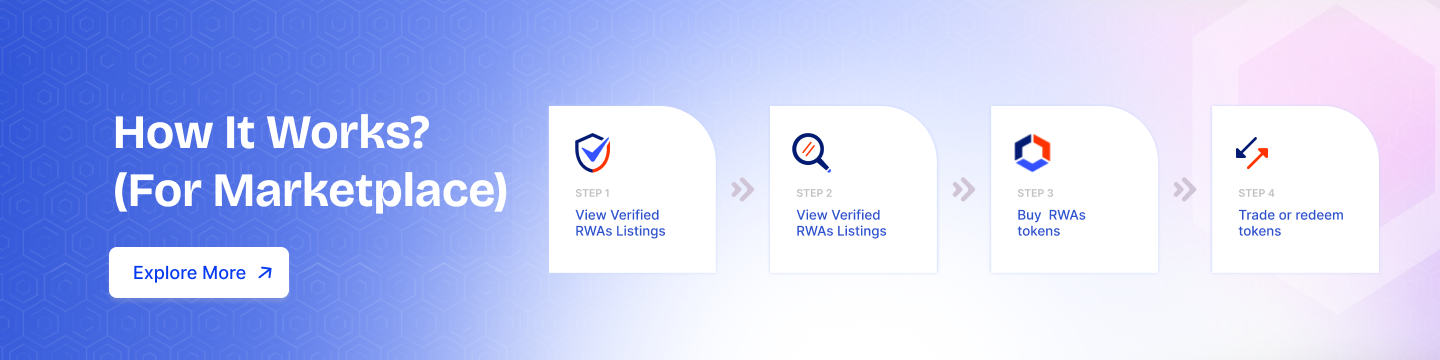
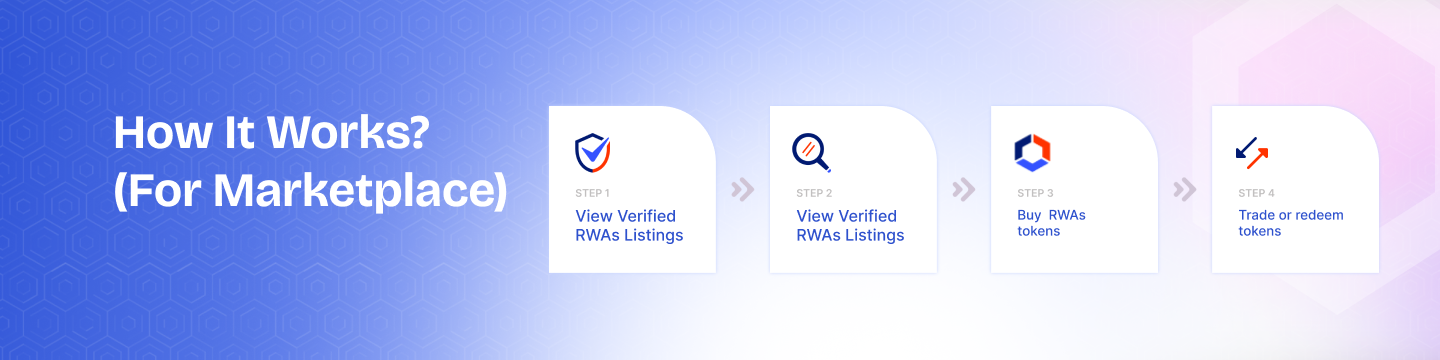
Added styling and responsiveness to carousel

Changed region(s): [[0.0625, 0.6722, 0.2188, 0.8556], [0.5312, 0.5806, 0.625, 0.6722], [0.375, 0.5806, 0.5, 0.6722]]

diff --git a/marketplace/ui/src/components/MarketPlace/index.js b/marketplace/ui/src/components/MarketPlace/index.js
@@ -20,7 +20,7 @@ const MarketPlace = ({ user, isAuthenticated }) => {
   const dispatch = useCategoryDispatch();
   const debouncedSearchTerm = useDebounce("", 1000);
   const { iscategorysLoading } = useCategoryState();
-  
+
   useEffect(() => {
     if (isAuthenticated) {
       const loginCount = localStorage.getItem('loginCount');
@@ -35,7 +35,7 @@ const MarketPlace = ({ user, isAuthenticated }) => {
               type="primary"
               onClick={() => navigateToUserProfile()}
               style={{
-                borderRadius: '20px', 
+                borderRadius: '20px',
                 color: '#fff',
               }}
             >
@@ -64,142 +64,206 @@ const MarketPlace = ({ user, isAuthenticated }) => {
   const linkUrl = window.location.href;
   const metaImg = SEO.IMAGE_META
   const navRoute = routes.MarketplaceCategoryProductList.url.replace(':category', 'All');
-  
+
   return (
     <>
-    <HelmetComponent 
-          title={SEO.TITLE_META}
-          description={SEO.DESCRIPTION_META} 
-          link={linkUrl} />
-    <Fade triggerOnce>
-      <Carousel autoPlay centerSlidePercentage={95} showArrows={false} infiniteLoop showStatus={false} swipeable emulateTouch autoFocus centerMode>
-        <div className="relative p-2 h-[222px] md:h-[380px] mx-1 md:mx-2 md:mt-6 lg:mx-3">
-          {/* <div  className="flex flex-col gap-3 backdrop-blur-2xl text-left p-4 px-3 md:px-8 h-[67%] sm:h-32 md:h-40 w-[92%] sm:w-[70%] md:w-[500px] rounded-md md:rounded-2xl absolute left-2 md:left-10 top-10 sm:top-20 md:top-44 bg-[rgba(256,256,256,0.17)] z-50">
-            <Typography.Text className="text-base md:text-2xl md:leading-[40px] text-white font-semibold">
-              Welcome to Mercata Marketplace!
-            </Typography.Text>
-            <Typography.Text className="md:text-sm text-white pr-0">
-              Explore trending real-world assets
-            </Typography.Text>
-            <Button
-              id="viewMore"
-              onClick={() => {
-                navigate(navRoute);
-                sessionStorage.setItem('scrollPosition', 0);
-              }}
-              className="group w-[106px] md:w-[135px] h-8 md:h-11 border border-primary bg-white opacity-80">
-              <div className="text-primary font-semibold md:text-lg">
-                View More
-              </div>
-            </Button>
-          </div> */}
-          <img 
-          alt={metaImg}
-          title={metaImg}
-          className="absolute inset-0 z-10 h-[222px] md:h-[330px] md:w-[90%] rounded-md md:rounded-[14px] drop-shadow-md" 
-          height={380} width="100%" src={Images.carousel_desktop_one} preview={false} />
-        </div>
-        <div className="relative p-2 h-[222px] md:h-[380px] mx-1 md:mx-2  md:mt-6 lg:mx-3">
-          {/* <div  className="flex flex-col gap-3 backdrop-blur-2xl text-left p-4 px-3 md:px-8 h-[67%] sm:h-32 md:h-40 w-[92%] sm:w-[70%] md:w-[500px] rounded-md md:rounded-2xl absolute left-2 md:left-10 top-10 sm:top-20 md:top-44 bg-[rgba(256,256,256,0.17)] z-50">
-            <Typography.Text className="text-base md:text-2xl md:leading-[40px] text-white font-semibold">
-              Welcome to Mercata Marketplace!
-            </Typography.Text>
-            <Typography.Text className="md:text-sm text-white pr-0">
-              Explore trending real-world assets
-            </Typography.Text>
-            <Button
-              id="viewMore"
-              onClick={() => {
-                navigate(navRoute);
-                sessionStorage.setItem('scrollPosition', 0);              
-              }}
-              className="group w-[106px] md:w-[135px] h-8 md:h-11 border border-primary bg-white opacity-80">
-              <div className="text-primary font-semibold md:text-lg">
-                View More
-              </div>
-            </Button>
-          </div> */}
-          <img 
-          alt={metaImg}
-          title={metaImg}
-          className="absolute inset-0 z-10 h-[222px] md:h-[330px] md:w-[90%] rounded-md md:rounded-[14px] drop-shadow-md" height={380} width="100%" src={Images.carousel_desktop_two} preview={false} />
-        </div>
-        <div className="relative p-2 h-[222px] md:h-[380px] mx-1 md:mx-2  md:mt-6 lg:mx-3">
-          {/* <div  className="flex flex-col gap-3 backdrop-blur-2xl text-left p-4 px-3 md:px-8 h-[67%] sm:h-32 md:h-40 w-[92%] sm:w-[70%] md:w-[500px] rounded-md md:rounded-2xl absolute left-2 md:left-10 top-10 sm:top-20 md:top-44 bg-[rgba(256,256,256,0.17)] z-50">
-            <Typography.Text className="text-base md:text-2xl md:leading-[40px] text-white font-semibold">
-              Welcome to Mercata Marketplace!
-            </Typography.Text>
-            <Typography.Text className="md:text-sm text-white pr-0">
-              Explore trending real-world assets
-            </Typography.Text>
-            <Button
-              id="viewMore"
-              onClick={() => {
-                navigate(navRoute);
-                sessionStorage.setItem('scrollPosition', 0);              
-              }}
-              className="group w-[106px] md:w-[135px] h-8 md:h-11 border border-primary bg-white opacity-80">
-              <div className="text-primary font-semibold md:text-lg">
-                View More
-              </div>
-            </Button>
-          </div> */}
-          <img 
-          alt={metaImg}
-          title={metaImg}
-          className="absolute inset-0 z-10 h-[222px] md:h-[330px] md:w-[90%] rounded-md md:rounded-[14px] drop-shadow-md" height={380} width="100%" src={Images.carousel_desktop_three} preview={false} />
-        </div>
-        <div className="relative p-2 h-[222px] md:h-[380px] mx-1 md:mx-2  md:mt-6 lg:mx-3">
-          {/* <div  className="flex flex-col gap-3 backdrop-blur-2xl text-left p-4 px-3 md:px-8 h-[67%] sm:h-32 md:h-40 w-[92%] sm:w-[70%] md:w-[500px] rounded-md md:rounded-2xl absolute left-2 md:left-10 top-10 sm:top-20 md:top-44 bg-[rgba(256,256,256,0.17)] z-50">
-            <Typography.Text className="text-base md:text-2xl md:leading-[40px] text-white font-semibold">
-              Welcome to Mercata Marketplace!
-            </Typography.Text>
-            <Typography.Text className="md:text-sm text-white pr-0">
-              Explore trending real-world assets
-            </Typography.Text>
-            <Button
-              id="viewMore"
-              onClick={() => {
-                navigate(navRoute);
-                sessionStorage.setItem('scrollPosition', 0);              
-              }}
-              className="group w-[106px] md:w-[135px] h-8 md:h-11 border border-primary bg-white opacity-80">
-              <div className="text-primary font-semibold md:text-lg">
-                View More
-              </div>
-            </Button>
-          </div> */}
-          <img 
-          alt={metaImg}
-          title={metaImg}
-          className="absolute inset-0 object-cover z-10 h-[222px] md:h-[330px] md:w-[90%] rounded-md md:rounded-[14px] drop-shadow-md" height={380} width="100%" src={Images.carousel_desktop_four} preview={false} />
-        </div>
-        <div className="relative p-2 h-[222px] md:h-[380px] mx-1 md:mx-2  md:mt-6 lg:mx-3">
-          {/* <div  className="flex flex-col gap-3 backdrop-blur-2xl text-left p-4 px-3 md:px-8 h-[67%] sm:h-32 md:h-40 w-[92%] sm:w-[70%] md:w-[500px] rounded-md md:rounded-2xl absolute left-2 md:left-10 top-10 sm:top-20 md:top-44 bg-[rgba(256,256,256,0.17)] z-50">
-            <Typography.Text className="text-base md:text-2xl md:leading-[40px] text-white font-semibold">
-              Welcome to Mercata Marketplace!
-            </Typography.Text>
-            <Typography.Text className="md:text-sm text-white pr-0">
-              Explore trending real-world assets
-            </Typography.Text>
-            <Button
-              id="viewMore"
-              onClick={() => {
-                navigate(navRoute);
-                sessionStorage.setItem('scrollPosition', 0);              
-              }}
-              className="group w-[106px] md:w-[135px] h-8 md:h-11 border border-primary bg-white opacity-80">
-              <div className="text-primary font-semibold md:text-lg">
-                View More
-              </div>
-            </Button>
-          </div> */}
-          <img 
-          alt={metaImg}
-          title={metaImg}
-          className="absolute inset-0 object-cover z-10 h-[222px] md:h-[330px] md:w-[90%] rounded-md md:rounded-[14px] drop-shadow-md" height={380} width="100%" src={Images.carousel_desktop_five} preview={false} />
-        </div>
-      </Carousel>
+      <HelmetComponent
+        title={SEO.TITLE_META}
+        description={SEO.DESCRIPTION_META}
+        link={linkUrl} />
+      <Fade triggerOnce>
+        <Carousel autoPlay centerSlidePercentage={95} showArrows={false} infiniteLoop showStatus={false} swipeable emulateTouch autoFocus centerMode>
+          <div className="relative p-2 h-[222px] md:h-[380px] mx-1 md:mx-2 md:mt-6 lg:mx-3">
+            <div className="absolute top-40 left-8 md:left-24 md:top-60 z-50">
+              <Button
+                id="viewMore"
+                onClick={() => {
+                  navigate(navRoute);
+                  sessionStorage.setItem('scrollPosition', 0);
+                }}
+                className="gradient-button h-auto md:h-11 border-primary bg-white text-primary hover:text-white"
+              >
+                <div className="flex items-center">
+                  <div className="hidden md:block font-semibold text-lg">
+                    Explore More
+                  </div>
+                  <div className="md:hidden font-semibold text-base">
+                    Explore
+                  </div>
+                  <img src={Images.button_arrow} />
+                </div>
+              </Button>
+            </div>
+            <div className="hidden md:block ">
+              <img
+                alt={metaImg}
+                title={metaImg}
+                className="absolute inset-0 z-10 h-[222px] md:h-[330px] md:w-[90%] rounded-md md:rounded-[14px] drop-shadow-md"
+                height={380} width="100%" src={Images.carousel_desktop_one} preview={false}
+              />
+            </div>
+            <div className="md:hidden ">
+              <img
+                alt={metaImg}
+                title={metaImg}
+                className="absolute inset-0 z-10 h-[222px] md:h-[330px] md:w-[90%] rounded-md md:rounded-[14px] drop-shadow-md"
+                height={380} width="100%" src={Images.carousel_mobile_one} preview={false}
+              />
+            </div>
+          </div>
+          <div className="relative p-2 h-[222px] md:h-[380px] mx-1 md:mx-2  md:mt-6 lg:mx-3">
+            <div className="absolute top-40 left-8 md:left-24 md:top-60 z-50">
+              <Button
+                id="viewMore"
+                onClick={() => {
+                  navigate(navRoute);
+                  sessionStorage.setItem('scrollPosition', 0);
+                }}
+                className="gradient-button h-auto md:h-11 border-primary bg-white text-primary hover:text-white"
+              >
+                <div className="flex items-center">
+                  <div className="hidden md:block font-semibold text-lg">
+                    Explore More
+                  </div>
+                  <div className="md:hidden font-semibold text-base">
+                    Explore
+                  </div>
+                  <img src={Images.button_arrow} />
+                </div>
+              </Button>
+            </div>
+            <div className="hidden md:block ">
+              <img
+                alt={metaImg}
+                title={metaImg}
+                className="absolute inset-0 z-10 h-[222px] md:h-[330px] md:w-[90%] rounded-md md:rounded-[14px] drop-shadow-md"
+                height={380} width="100%" src={Images.carousel_desktop_two} preview={false}
+              />
+            </div>
+            <div className="md:hidden ">
+              <img
+                alt={metaImg}
+                title={metaImg}
+                className="absolute inset-0 z-10 h-[222px] md:h-[330px] md:w-[90%] rounded-md md:rounded-[14px] drop-shadow-md"
+                height={380} width="100%" src={Images.carousel_mobile_two} preview={false}
+              />
+            </div>
+          </div>
+          <div className="relative p-2 h-[222px] md:h-[380px] mx-1 md:mx-2  md:mt-6 lg:mx-3">
+            <div className="absolute top-40 left-8 md:left-24 md:top-60 z-50">
+              <Button
+                id="viewMore"
+                onClick={() => {
+                  navigate(navRoute);
+                  sessionStorage.setItem('scrollPosition', 0);
+                }}
+                className="gradient-button h-auto md:h-11 border-primary bg-white text-primary hover:text-white"
+              >
+                <div className="flex items-center">
+                  <div className="hidden md:block font-semibold text-lg">
+                    Explore More
+                  </div>
+                  <div className="md:hidden font-semibold text-base">
+                    Explore
+                  </div>
+                  <img src={Images.button_arrow} />
+                </div>
+              </Button>
+            </div>
+            <div className="hidden md:block ">
+              <img
+                alt={metaImg}
+                title={metaImg}
+                className="absolute inset-0 z-10 h-[222px] md:h-[330px] md:w-[90%] rounded-md md:rounded-[14px] drop-shadow-md"
+                height={380} width="100%" src={Images.carousel_desktop_three} preview={false}
+              />
+            </div>
+            <div className="md:hidden ">
+              <img
+                alt={metaImg}
+                title={metaImg}
+                className="absolute inset-0 z-10 h-[222px] md:h-[330px] md:w-[90%] rounded-md md:rounded-[14px] drop-shadow-md"
+                height={380} width="100%" src={Images.carousel_mobile_three} preview={false}
+              />
+            </div>
+          </div>
+          <div className="relative p-2 h-[222px] md:h-[380px] mx-1 md:mx-2  md:mt-6 lg:mx-3">
+            <div className="absolute top-40 left-8 md:left-24 md:top-60 z-50">
+              <Button
+                id="viewMore"
+                onClick={() => {
+                  navigate(navRoute);
+                  sessionStorage.setItem('scrollPosition', 0);
+                }}
+                className="gradient-button h-auto md:h-11 border-primary bg-white text-primary hover:text-white"
+              >
+                <div className="flex items-center">
+                  <div className="hidden md:block font-semibold text-lg">
+                    Explore More
+                  </div>
+                  <div className="md:hidden font-semibold text-base">
+                    Explore
+                  </div>
+                  <img src={Images.button_arrow} />
+                </div>
+              </Button>
+            </div>
+            <div className="hidden md:block ">
+              <img
+                alt={metaImg}
+                title={metaImg}
+                className="absolute inset-0 z-10 h-[222px] md:h-[330px] md:w-[90%] rounded-md md:rounded-[14px] drop-shadow-md"
+                height={380} width="100%" src={Images.carousel_desktop_four} preview={false}
+              />
+            </div>
+            <div className="md:hidden ">
+              <img
+                alt={metaImg}
+                title={metaImg}
+                className="absolute inset-0 z-10 h-[222px] md:h-[330px] md:w-[90%] rounded-md md:rounded-[14px] drop-shadow-md"
+                height={380} width="100%" src={Images.carousel_mobile_four} preview={false}
+              />
+            </div>
+          </div>
+          <div className="relative p-2 h-[222px] md:h-[380px] mx-1 md:mx-2  md:mt-6 lg:mx-3">
+            <div className="absolute top-40 left-8 md:left-24 md:top-60 z-50">
+              <Button
+                id="viewMore"
+                onClick={() => {
+                  navigate(navRoute);
+                  sessionStorage.setItem('scrollPosition', 0);
+                }}
+                className="gradient-button h-auto md:h-11 border-primary bg-white text-primary hover:text-white"
+              >
+                <div className="flex items-center">
+                  <div className="hidden md:block font-semibold text-lg">
+                    Explore More
+                  </div>
+                  <div className="md:hidden font-semibold text-base">
+                    Explore
+                  </div>
+                  <img src={Images.button_arrow} />
+                </div>
+              </Button>
+            </div>
+            <div className="hidden md:block ">
+              <img
+                alt={metaImg}
+                title={metaImg}
+                className="absolute inset-0 z-10 h-[222px] md:h-[330px] md:w-[90%] rounded-md md:rounded-[14px] drop-shadow-md"
+                height={380} width="100%" src={Images.carousel_desktop_five} preview={false}
+              />
+            </div>
+            <div className="md:hidden ">
+              <img
+                alt={metaImg}
+                title={metaImg}
+                className="absolute inset-0 z-10 h-[222px] md:h-[330px] md:w-[90%] rounded-md md:rounded-[14px] drop-shadow-md"
+                height={380} width="100%" src={Images.carousel_mobile_five} preview={false}
+              />
+            </div>
+          </div>
+        </Carousel>
       </Fade>
       {iscategorysLoading ? (
         <div className="h-96 flex justify-center items-center">

diff --git a/marketplace/ui/src/images/index.js b/marketplace/ui/src/images/index.js
@@ -63,5 +63,11 @@ export const Images = {
   'carousel_desktop_two': require("./resources/carousel_desktop_two.png"),
   'carousel_desktop_three': require("./resources/carousel_desktop_three.png"),
   'carousel_desktop_four': require("./resources/carousel_desktop_four.png"),
-  'carousel_desktop_five': require("./resources/carousel_desktop_five.png")
+  'carousel_desktop_five': require("./resources/carousel_desktop_five.png"),
+  'carousel_mobile_one': require("./resources/carousel_mobile_one.png"),
+  'carousel_mobile_two': require("./resources/carousel_mobile_two.png"),
+  'carousel_mobile_three': require("./resources/carousel_mobile_three.png"),
+  'carousel_mobile_four': require("./resources/carousel_mobile_four.png"),
+  'carousel_mobile_five': require("./resources/carousel_mobile_five.png"),
+  'button_arrow': require("./resources/button_arrow.png")
 };

diff --git a/marketplace/ui/src/components/MarketPlace/index.css b/marketplace/ui/src/components/MarketPlace/index.css
@@ -85,3 +85,12 @@ img.ant-image-preview-img {
   width: 90%;
 }
 
+.gradient-button {
+  color: white; 
+  background: linear-gradient(270deg, #4F46E5 0%, #FB7185 100%);
+}
+
+.gradient-button:hover {
+  background: linear-gradient(90deg, #4F46E5 0%, #FB7185 100%); 
+}
+
